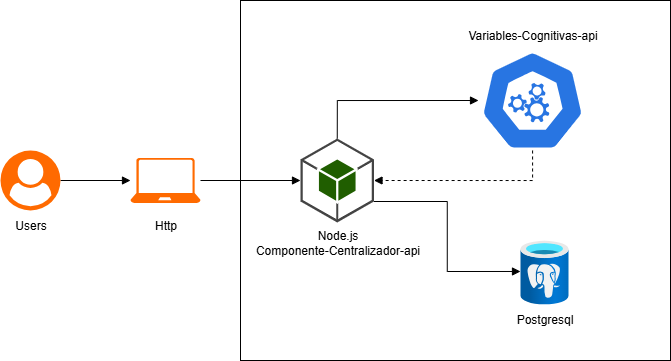
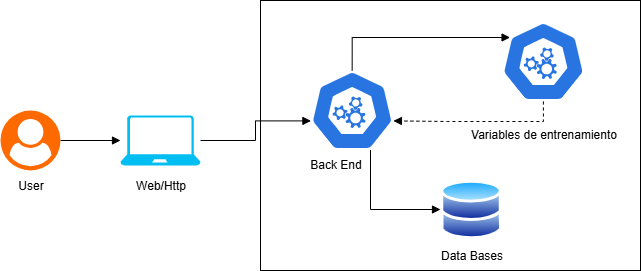
Se agrego apartado de arquitectura de referencia

diff --git a/DiseñoTacticoAltoNivel/ArquitecturaReferencia.md b/DiseñoTacticoAltoNivel/ArquitecturaReferencia.md
@@ -1,4 +1,72 @@
+# Arquitectura de Referencia
 ![Arquitectura de Referencia](/Imagenes/Arquitectura_Referencia.png)
+
+## 1. Interacción del Usuario (User → Web/Http)
+
+### Usuario
+Un jugador o administrador inicia la interacción con la aplicación, desde un **navegador web**.
+
+### Web/Http
+Las solicitudes del usuario viajan a través de la web utilizando el protocolo **HTTP(S)**, para alcanzar el punto de entrada de la aplicación.  
+Esta capa se encarga de **recibir y enrutar** las peticiones iniciales hacia los componentes adecuados del sistema.
+
+---
+
+## 2. Procesamiento Centralizado (Web/Http → Back End)
+
+### Back End
+Este componente actúa como el **cerebro de la aplicación**, recibiendo todas las solicitudes provenientes de la capa Web/Http.  
+Es responsable de procesar la lógica de negocio central, incluyendo:
+
+- **Gestión de Usuarios**:  
+  Autenticación, autorización, registro y administración de perfiles de usuario.
+
+- **Control del Flujo de Entrenamiento**:  
+  Administra el estado y progreso de los usuarios a través de las diferentes variables de entrenamiento.
+
+- **Orquestación**:  
+  Decide cuándo y cómo interactuar con otros componentes del sistema para cumplir con la solicitud del usuario.
+
+---
+
+## 3. Persistencia de Datos (Back End → Data Bases)
+
+### Data Bases
+Este componente es el **repositorio de información persistente** del sistema.  
+El Back End interactúa con él para:
+
+- **Almacenar Datos**:  
+  Guarda información como perfiles de usuario, credenciales y el progreso detallado en las variables de entrenamiento.
+
+- **Recuperar Datos**:  
+  Consulta y obtiene la información necesaria para responder al usuario o realizar cálculos internos.
+
+- **Asegurar la Integridad**:  
+  Garantiza que los datos se almacenen de manera consistente y fiable, manteniendo la coherencia del sistema.
+
+---
+
+## 4. Lógica Especializada (Back End → Variables de Entrenamiento)
+
+### Variables de Entrenamiento
+Este componente representa un **servicio o módulo externo especializado** que encapsula la lógica compleja relacionada con las variables de entrenamiento.
+
+El Back End se comunica con este servicio para:
+
+- Obtener datos específicos de entrenamiento.
+- Validar interacciones, como respuestas o acciones del usuario.
+- Generar contenido especializado.
+
+**Línea Punteada de Retorno**:  
+Este servicio devuelve los datos o resultados procesados al Back End, que los utiliza para:
+
+- Actualizar la base de datos.
+- Formular la respuesta final al usuario.
+
+
+# Arquetipo de Referencia
+
+![Arquetipo de Referencia](/Imagenes/Arquetipo_Referencia.png)
 
 La arquitectura propuesta representa el módulo centralizador de una aplicación de entrenamiento cognitivo enfocada en variables de entrenamiento. Este componente actúa como el punto de entrada principal para los usuarios y la gestión de las variables de entrenamiento, además de administrar los usuarios y su progreso individual en cada variable.
 
